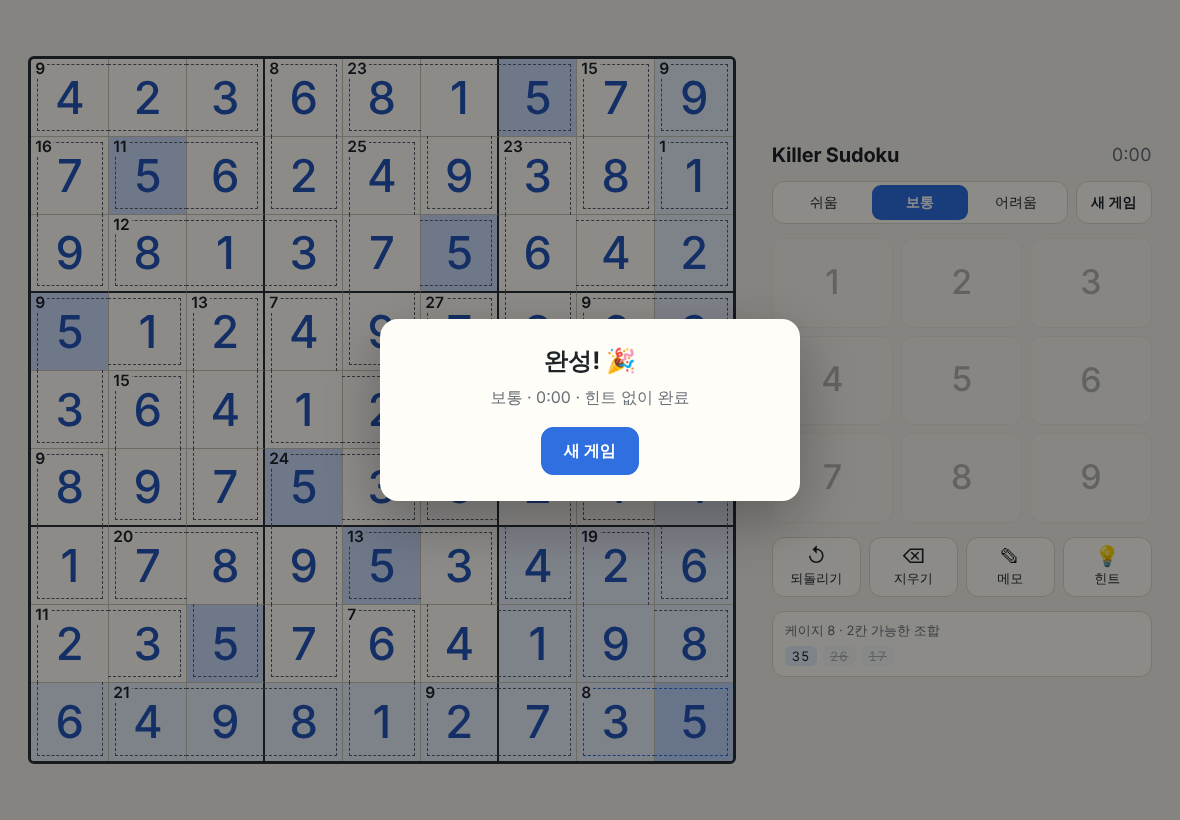
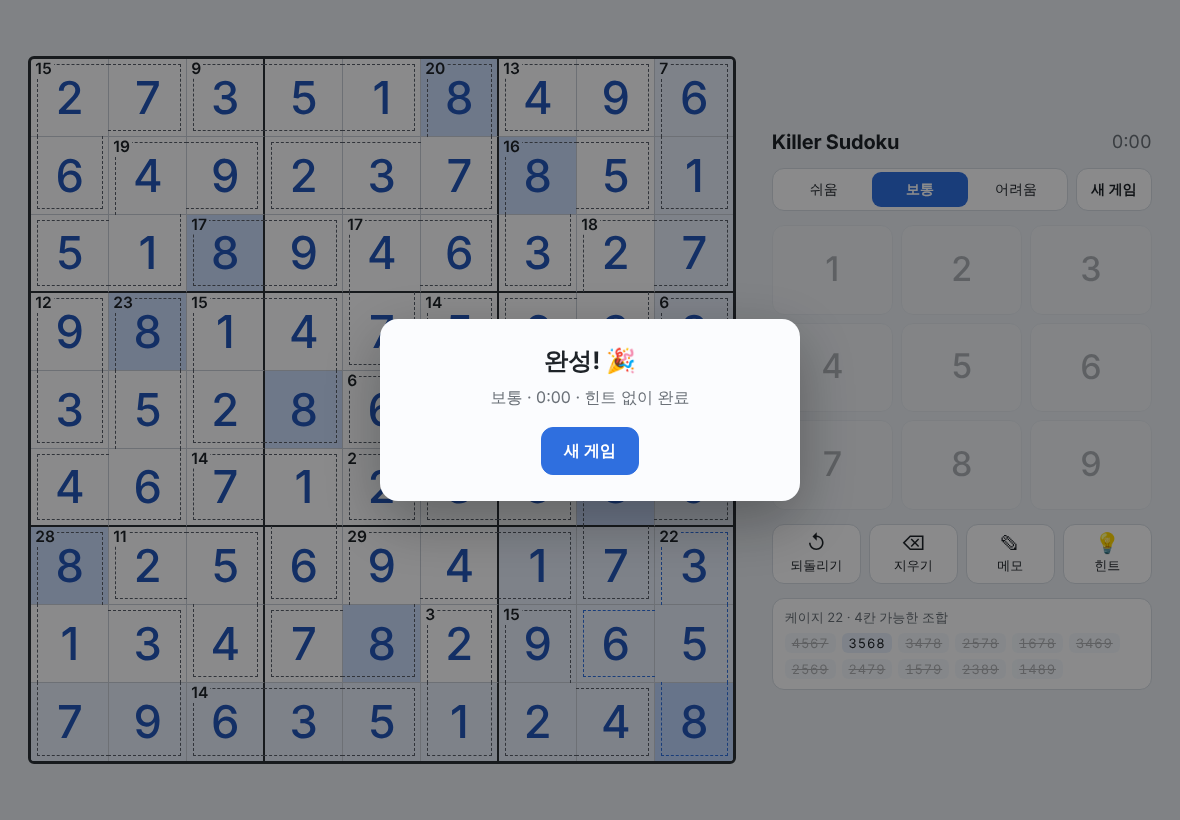
Theme-toggle aware dark mode, in-page retry instead of alert, safe-area gutters
Claude-Session: https://claude.ai/code/session_01VarNXBosHoMy2AGBeDnQKS

diff --git a/killer-sudoku/index.html b/killer-sudoku/index.html
@@ -8,14 +8,15 @@
 <meta name="apple-mobile-web-app-status-bar-style" content="default">
 <meta name="apple-mobile-web-app-title" content="Killer Sudoku">
 <title>Killer Sudoku</title>
+<meta name="claude:viewport-fit-sides" content="cover">
 <style>
 /* 레이아웃: 가로 화면은 보드 왼쪽 + 컨트롤 오른쪽, 세로 화면은 보드 위 + 컨트롤 아래. 스크롤 없음. */
 :root {
-  --bg: #f4f1ea;
-  --panel: #fffdf8;
+  --bg: #e9edf2;
+  --panel: #fbfcfe;
   --ink: #1e2328;
   --ink-dim: #6b7178;
-  --grid-thin: #c9c4b8;
+  --grid-thin: #c6ccd5;
   --grid-thick: #2b3036;
   --cage: #59606a;
   --accent: #2f6fdf;
@@ -26,13 +27,13 @@
   --user: #2457b8;
   --err: #d23b2f;
   --err-bg: #fbe0dc;
-  --line: #ddd7cb;
+  --line: #d3d9e1;
   --font: -apple-system, "SF Pro Text", "Apple SD Gothic Neo", "Helvetica Neue", Arial, sans-serif;
   --num: "SF Pro Rounded", -apple-system, "Helvetica Neue", Arial, sans-serif;
   color-scheme: light;
 }
 @media (prefers-color-scheme: dark) {
-  :root {
+  :root:not([data-theme="light"]) {
     --bg: #15181c;
     --panel: #1d2126;
     --ink: #e9ecef;
@@ -52,6 +53,25 @@
     color-scheme: dark;
   }
 }
+:root[data-theme="dark"] {
+  --bg: #15181c;
+  --panel: #1d2126;
+  --ink: #e9ecef;
+  --ink-dim: #9aa2ab;
+  --grid-thin: #3a4048;
+  --grid-thick: #c4cad1;
+  --cage: #8f98a3;
+  --accent: #5b93f5;
+  --accent-ink: #0c1424;
+  --sel: #2c4a7d;
+  --peer: #222a35;
+  --same: #2a3f63;
+  --user: #8db6ff;
+  --err: #ff6b5e;
+  --err-bg: #4a2420;
+  --line: #2e343b;
+  color-scheme: dark;
+}
 * { box-sizing: border-box; -webkit-tap-highlight-color: transparent; }
 [hidden] { display: none !important; }
 html, body { height: 100%; margin: 0; overflow: hidden; }
@@ -61,9 +81,11 @@ body {
   -webkit-text-size-adjust: 100%;
 }
 .app {
-  height: 100dvh; display: flex; align-items: center; justify-content: center;
+  height: 100%; display: flex; align-items: center; justify-content: center;
   gap: clamp(16px, 3vw, 40px);
-  padding: max(14px, env(safe-area-inset-top)) max(16px, env(safe-area-inset-right)) max(14px, env(safe-area-inset-bottom)) max(16px, env(safe-area-inset-left));
+  padding-block: max(14px, env(safe-area-inset-top, 0px)) max(14px, env(safe-area-inset-bottom, 0px));
+  padding-left: max(16px, env(safe-area-inset-left, 0px));
+  padding-right: max(16px, env(safe-area-inset-right, 0px));
   --size: min(calc(100dvh - 40px), 60vw);
 }
 @media (orientation: portrait) {
@@ -194,6 +216,13 @@ button:active { transform: scale(0.97); }
 </div>
 
 <div class="overlay" id="busy" hidden><div class="dialog"><h2>퍼즐 생성 중…</h2><p>해가 하나뿐인 퍼즐을 만들고 있어요.</p></div></div>
+<div class="overlay" id="failed" hidden>
+  <div class="dialog">
+    <h2>퍼즐을 만들지 못했어요</h2>
+    <p>다시 시도하면 대부분 바로 만들어집니다.</p>
+    <div class="row"><button class="primary" id="retry">다시 시도</button></div>
+  </div>
+</div>
 <div class="overlay" id="win" hidden>
   <div class="dialog">
     <h2>완성! 🎉</h2>
@@ -487,7 +516,7 @@ function newGame(diff) {
     let p = null;
     for (let t = 0; !p && t < 5; t++) p = generate(diff);
     $('#busy').hidden = true;
-    if (!p) { alert('퍼즐 생성에 실패했어요. 다시 시도해 주세요.'); return; }
+    if (!p) { lastFailed = diff; $('#failed').hidden = false; return; }
     S = { diff, sol: p.sol, cages: p.cages, vals: new Array(81).fill(0), notes: new Array(81).fill(0), hinted: [], elapsed: 0, done: false };
     sel = 40; undo = []; notesMode = false;
     setup(); persist();
@@ -670,7 +699,8 @@ $('#eraseBtn').addEventListener('click', erase);
 $('#notesBtn').addEventListener('click', () => { notesMode = !notesMode; render(); });
 $('#hintBtn').addEventListener('click', hint);
 
-let pendingDiff = null;
+let pendingDiff = null, lastFailed = 'medium';
+$('#retry').addEventListener('click', () => { $('#failed').hidden = true; newGame(lastFailed); });
 function askNew(diff) {
   pendingDiff = diff;
   const playing = S && !S.done && S.vals.some(v => v);
